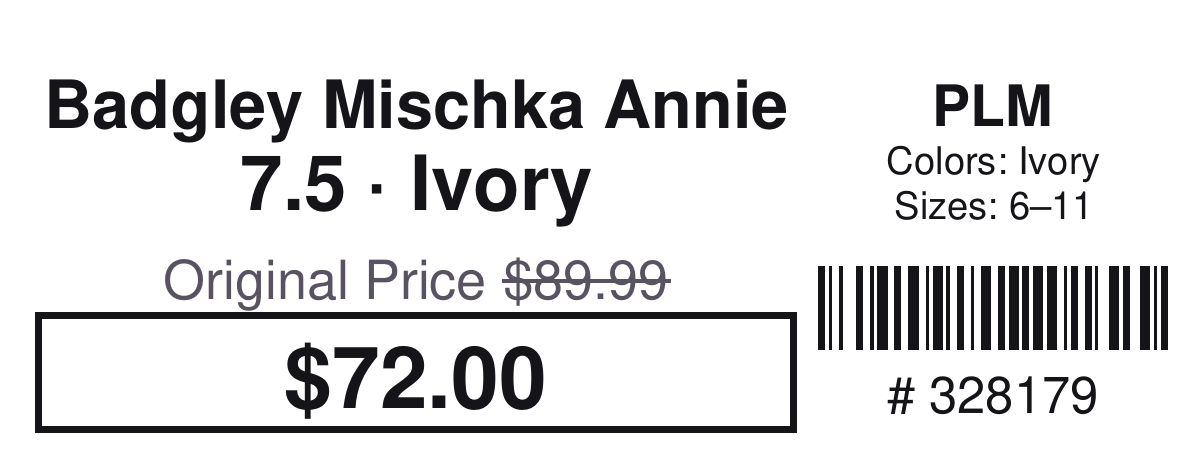
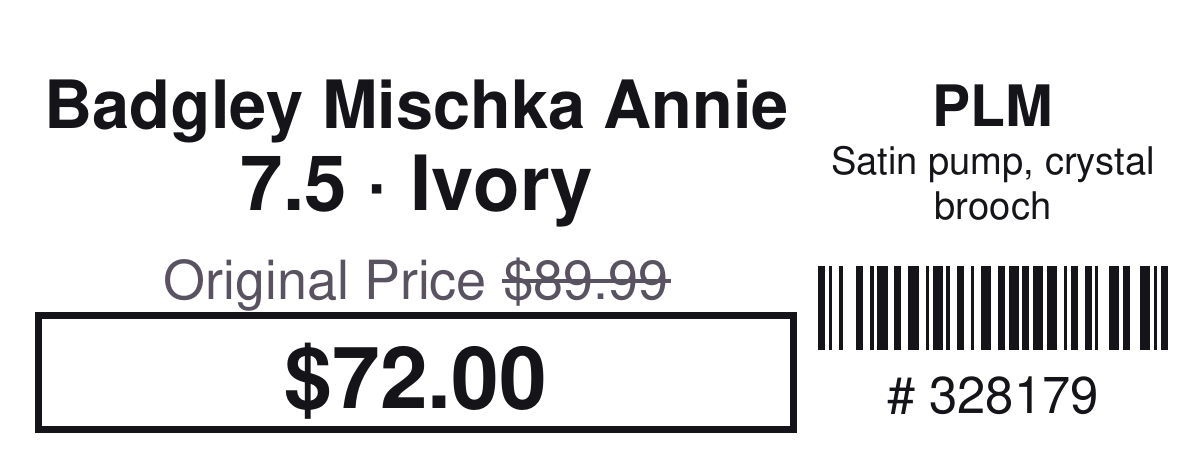
Labels: description line comes only from the BridalLive item Description field; name no longer taken from Description; realistic preview samples

Changed region(s): [[0.6783, 0.3057, 0.9867, 0.4891]]

diff --git a/src/labels/lookup.ts b/src/labels/lookup.ts
@@ -5,6 +5,30 @@ import { getWorkingLocationId } from '../lib/helper-session'
 import { resolveDataSource } from '../lib/data-source'
 import { getMockCatalog } from '../inventory/mock-provider'
 import { searchInventory } from '../inventory/service'
+import { bridalLiveFetch } from '../lib/bridallive-auth'
+import type { BridalLiveItem } from '../lib/bridallive-item-map'
+
+/**
+ * Labels print BridalLive's own item Description field (`description`).
+ * The items list endpoint can leave it out, so read the full item when it is missing.
+ */
+async function withBridalLiveDescription(
+  item: InventoryItem,
+  storeId: string,
+): Promise<InventoryItem> {
+  if ((item.description ?? '').trim() || !/^\d+$/.test(item.id)) return item
+  if ((await resolveDataSource()) !== 'bridallive') return item
+  try {
+    const full = await bridalLiveFetch<BridalLiveItem>(`/api/items/${item.id}`, {
+      method: 'GET',
+      storeId,
+    })
+    const description = (full?.description ?? '').trim()
+    return description ? { ...item, description } : item
+  } catch {
+    return item
+  }
+}
 
 function normalizeKey(value: string): string {
   return value.trim().toLowerCase()
@@ -23,10 +47,10 @@ export async function lookupInventoryByItemNumber(
     { itemNumber: want, locationId: resolvedStoreId },
     resolvedStoreId,
   )
-  return (
+  const match =
     items.find((i) => normalizeKey(i.itemNumber) === normalizeKey(want)) ??
     (items.length === 1 ? items[0]! : null)
-  )
+  return match ? withBridalLiveDescription(match, resolvedStoreId) : null
 }
 
 /**

diff --git a/src/labels/enrich.ts b/src/labels/enrich.ts
@@ -162,8 +162,8 @@ export function enrichFromCatalog(
   const msrp = formatMoney(retail)
   const salePrice = formatMoney(sale != null && sale > 0 ? sale : retail)
 
+  /* Name comes from the BridalLive item name; Description is only the small line. */
   const itemName = pickDescriptiveName(itemNumber, [
-    match?.description,
     line.style,
     match?.style,
     line.vendorItemName,
